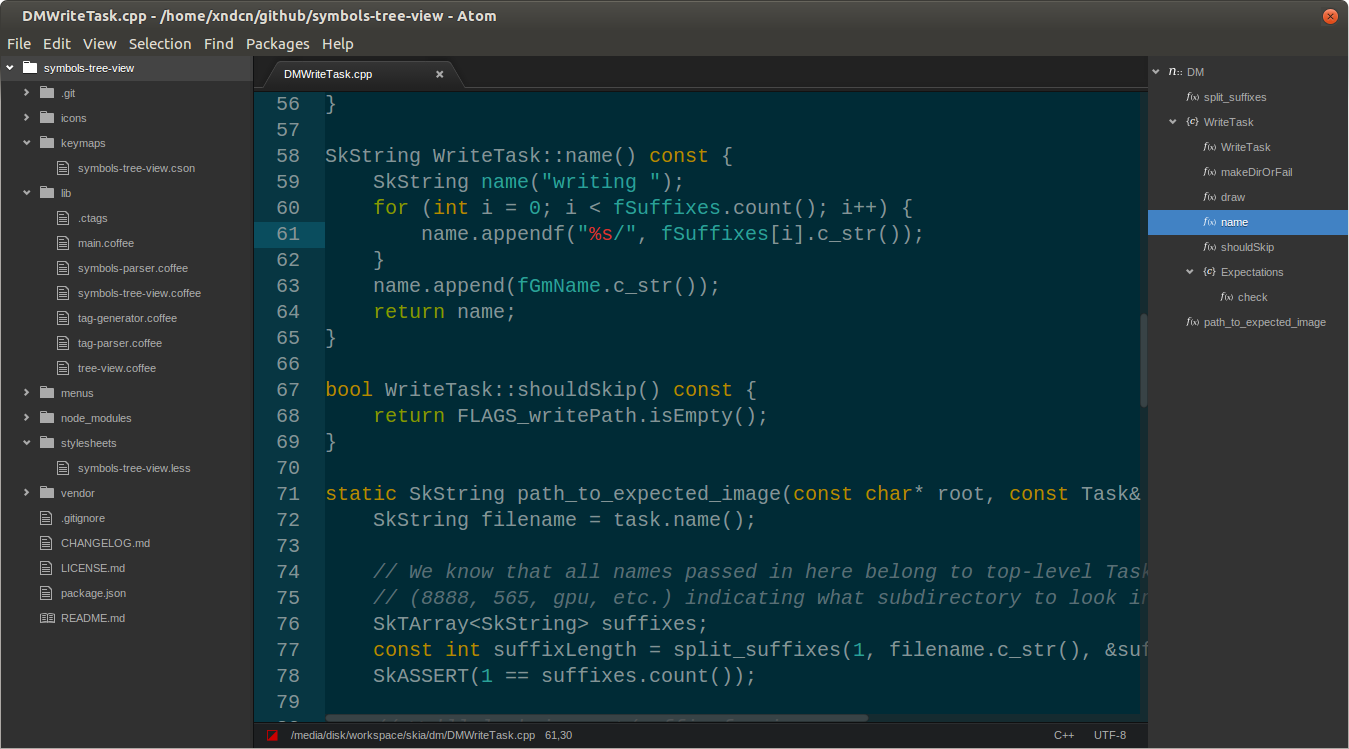
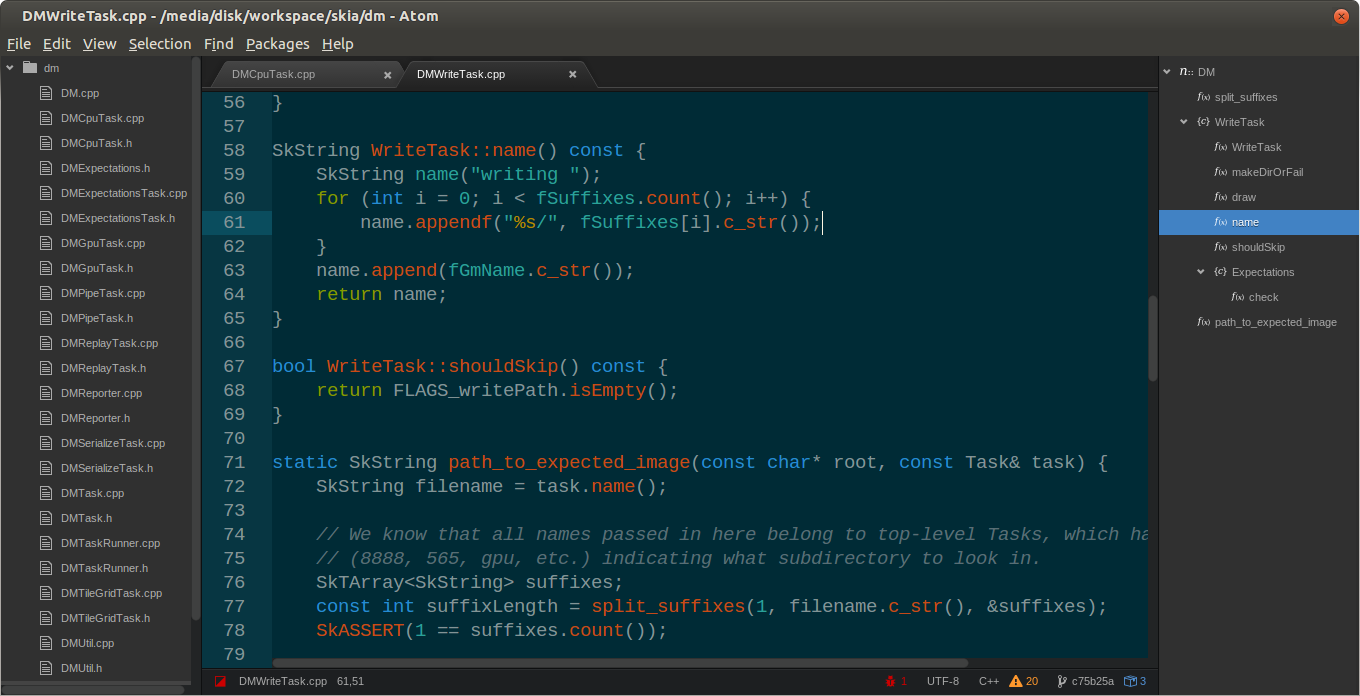
Update screencast.

Changed region(s): [[0.0, 0.0, 0.8718, 0.9957], [0.8406, 0.0905, 1.0, 0.4828]]

diff --git a/README.md b/README.md
@@ -4,7 +4,7 @@ Symbols Tree View for Atom.io, just like taglist or tagbar for VIM.
 
 tag-generator.coffee comes from http://github.com/atom/symbols-view
 
-![screenshot](https://raw.githubusercontent.com/xndcn/symbols-tree-view/master/screenshot.png?raw=true)
+![screencast](https://raw.githubusercontent.com/xndcn/symbols-tree-view/master/screencast.gif?raw=true)
 
 
 ## TO DO
